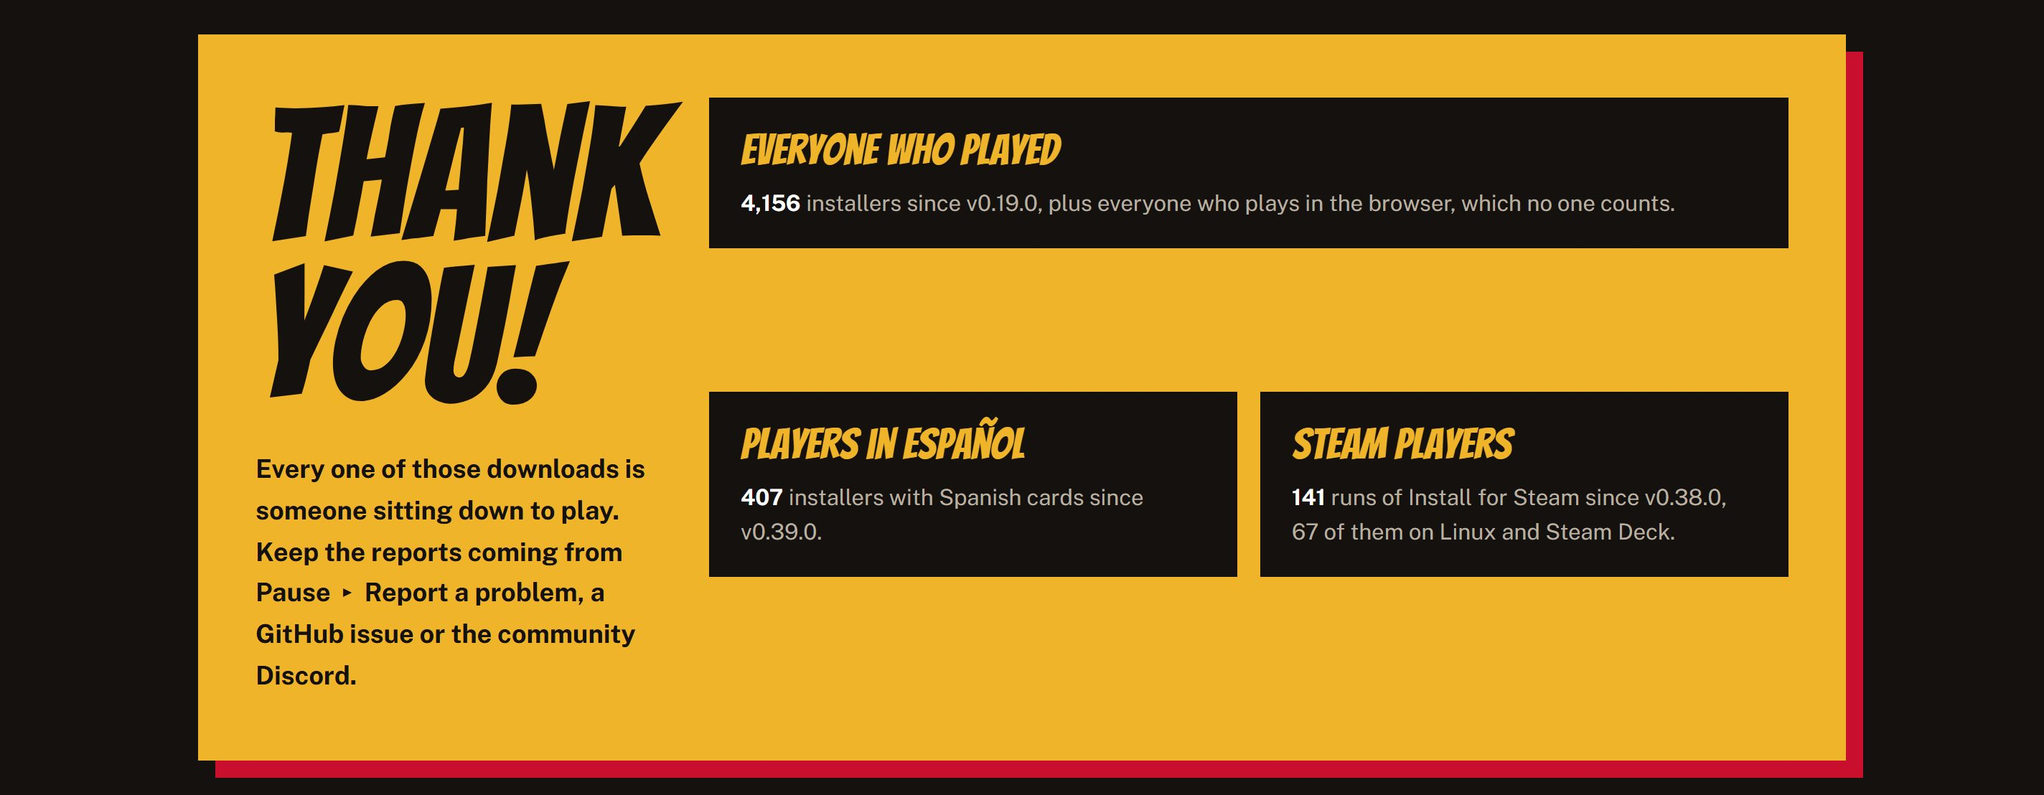
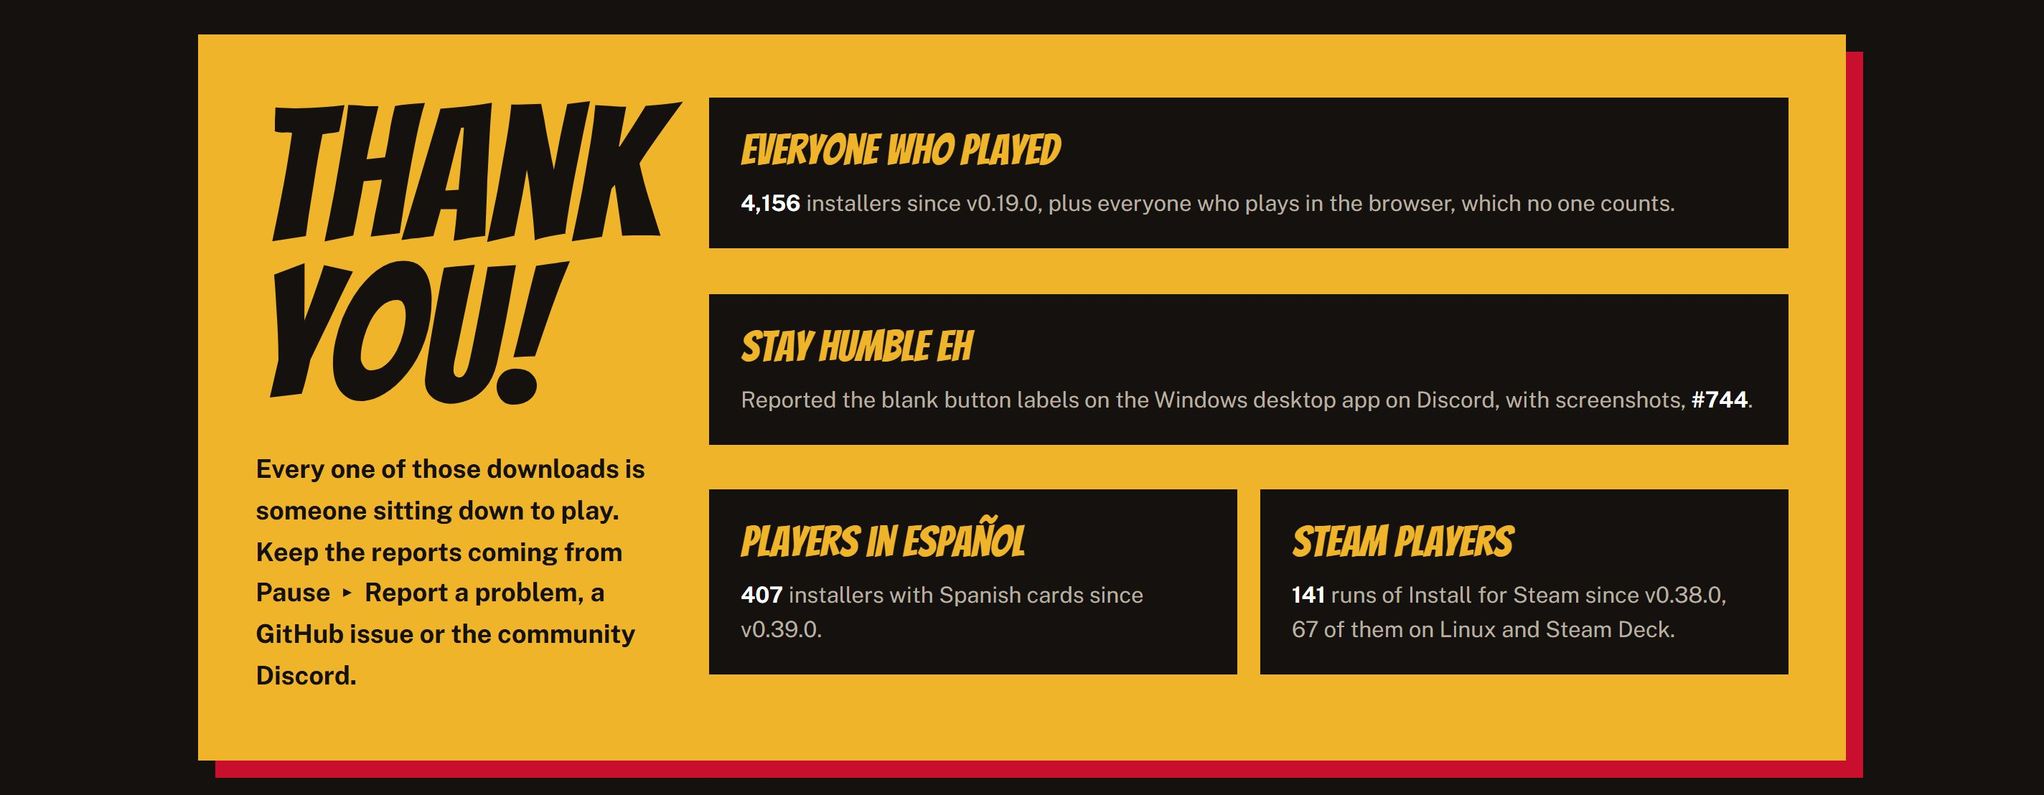
Credit Stay Humble Eh for #744 in the v0.47.0 report, with their before shot, and recount

Changed region(s): [[0.3438, 0.3682, 0.875, 0.8592]]

diff --git a/packages/client/public/releases/v0.47.0/index.html b/packages/client/public/releases/v0.47.0/index.html
@@ -851,12 +851,13 @@
       </div>
       <p class="lead">
         <b>Button labels stay drawn on the desktop app.</b> In v0.46.0 on Windows, coming back from the Mod Store or
-        changing a setting could leave the buttons empty until the mouse went over them.
+        changing a setting could leave the buttons empty until the mouse went over them. Thank you, Stay Humble Eh, for
+        the report on Discord.
       </p>
       <div class="cards">
         <div class="paper wide">
           <div>
-            <div class="eb">#744 · Windows desktop app</div>
+            <div class="eb">#744 · reported by Stay Humble Eh</div>
             <h3>The labels come back</h3>
             <p>
               The title menu's buttons, the Settings tabs and rows, the panel heading and the language chip all went
@@ -881,7 +882,17 @@
           </figure>
         </div>
       </div>
-      <div class="shots" style="margin-top: 26px">
+      <div class="shots s2" style="margin-top: 26px">
+        <figure>
+          <img
+            src="img/labels-before.webp"
+            alt="The light title screen in v0.46.0 on Windows with every menu button empty, from the player's report"
+            width="1086"
+            height="676"
+            loading="lazy"
+          />
+          <figcaption>Before: v0.46.0 on Windows, from Stay Humble Eh's report</figcaption>
+        </figure>
         <figure>
           <img
             src="img/labels-settings.webp"
@@ -908,6 +919,12 @@
             <h3>Everyone who played</h3>
             <p><b>4,156</b> installers since v0.19.0, plus everyone who plays in the browser, which no one counts.</p>
           </div>
+          <div class="person wide">
+            <h3>Stay Humble Eh</h3>
+            <p>
+              Reported the blank button labels on the Windows desktop app on Discord, with screenshots, <b>#744</b>.
+            </p>
+          </div>
           <div class="person">
             <h3>Players in Español</h3>
             <p><b>407</b> installers with Spanish cards since v0.39.0.</p>
@@ -932,17 +949,17 @@
         </div>
         <div class="tile">
           <h4>Files changed</h4>
-          <div class="n">69</div>
+          <div class="n">72</div>
           <p>across the site, its build and this report.</p>
         </div>
         <div class="tile">
           <h4>Lines added</h4>
-          <div class="n c-green">3,254</div>
+          <div class="n c-green">3,497</div>
           <p>the stats page, the top bar and their tests.</p>
         </div>
         <div class="tile">
           <h4>Lines removed</h4>
-          <div class="n c-red">49</div>
+          <div class="n c-red">50</div>
           <p>most of them the home page's old links and styles, replaced by the bar.</p>
         </div>
       </section>

diff --git a/docs/screenshots/releases/v0.47.0/github-release-body.md b/docs/screenshots/releases/v0.47.0/github-release-body.md
@@ -1,24 +1,24 @@
 ## The Numbers Are In
 
-You've downloaded the game 4,156 times since v0.19.0, so the site has a Download stats page now (#743, #745): every installer by platform, by release and by card language, the five biggest releases with their headlines, and the Install for Steam runs, counted again twice a day whenever the numbers move. Android leads with 41%, and a third of installers since v0.39.0 have Spanish cards. The home page's download panel gets a Steam script button beside the installer, with how to run it on Windows, macOS, Linux and Steam Deck (#747, #748). Every page on the site, from the home page to the release history and each report, shares one top bar with Home, Download stats and Releases. On the Windows desktop app, button labels no longer go blank after the Mod Store or a settings change (#744, #750). Thank you for playing!
+You've downloaded the game 4,156 times since v0.19.0, so the site has a Download stats page now (#743, #745): every installer by platform, by release and by card language, the five biggest releases with their headlines, and the Install for Steam runs, counted again twice a day whenever the numbers move. Android leads with 41%, and a third of installers since v0.39.0 have Spanish cards. The home page's download panel gets a Steam script button beside the installer, with how to run it on Windows, macOS, Linux and Steam Deck (#747, #748). Every page on the site, from the home page to the release history and each report, shares one top bar with Home, Download stats and Releases. On the Windows desktop app, button labels no longer go blank after the Mod Store or a settings change, which Stay Humble Eh reported on Discord (#744, #750). Thank you for playing!
 
 **[Read the full v0.47.0 report on the site ↗](https://champions-digital-game.com/releases/v0.47.0/)**: the Download stats page, where you play, every release's bar, the top five, the Steam script button, the shared top bar, the blank labels fix and the thank-you wall.
 
 **[Lee el informe completo en español ↗](https://champions-digital-game.com/releases/v0.47.0/index.es.html)**
 
-![The numbers: 4,156 installers downloaded since v0.19.0, 41% of them on Android and 33% in Español since v0.39.0](https://raw.githubusercontent.com/quincarter/marvel-champions-digital-game/cc42924263533571a609197657e14b71251f01af/docs/screenshots/releases/v0.47.0/v0-47-0-release-01-the-numbers.jpg)
+![The numbers: 4,156 installers downloaded since v0.19.0, 41% of them on Android and 33% in Español since v0.39.0](https://raw.githubusercontent.com/quincarter/marvel-champions-digital-game/@SHA@/docs/screenshots/releases/v0.47.0/v0-47-0-release-01-the-numbers.jpg)
 
-![A page for the numbers: the Download stats page, each platform's share, the five biggest releases, the page on a phone, a bar for every release, and card language and Install for Steam](https://raw.githubusercontent.com/quincarter/marvel-champions-digital-game/cc42924263533571a609197657e14b71251f01af/docs/screenshots/releases/v0.47.0/v0-47-0-release-02-a-page-for-the-numbers.jpg)
+![A page for the numbers: the Download stats page, each platform's share, the five biggest releases, the page on a phone, a bar for every release, and card language and Install for Steam](https://raw.githubusercontent.com/quincarter/marvel-champions-digital-game/@SHA@/docs/screenshots/releases/v0.47.0/v0-47-0-release-02-a-page-for-the-numbers.jpg)
 
-![Play it from Steam: the Steam script button beside the installer on Windows, Linux and a Mac at phone width, with how to run it](https://raw.githubusercontent.com/quincarter/marvel-champions-digital-game/cc42924263533571a609197657e14b71251f01af/docs/screenshots/releases/v0.47.0/v0-47-0-release-03-play-it-from-steam.jpg)
+![Play it from Steam: the Steam script button beside the installer on Windows, Linux and a Mac at phone width, with how to run it](https://raw.githubusercontent.com/quincarter/marvel-champions-digital-game/@SHA@/docs/screenshots/releases/v0.47.0/v0-47-0-release-03-play-it-from-steam.jpg)
 
-![One bar across the site: Home, Download stats and Releases on a release report and on the release history](https://raw.githubusercontent.com/quincarter/marvel-champions-digital-game/cc42924263533571a609197657e14b71251f01af/docs/screenshots/releases/v0.47.0/v0-47-0-release-04-one-bar-across-the-site.jpg)
+![One bar across the site: Home, Download stats and Releases on a release report and on the release history](https://raw.githubusercontent.com/quincarter/marvel-champions-digital-game/@SHA@/docs/screenshots/releases/v0.47.0/v0-47-0-release-04-one-bar-across-the-site.jpg)
 
-![You asked, we fixed: button labels stay drawn on the Windows desktop app after the Mod Store or a settings change](https://raw.githubusercontent.com/quincarter/marvel-champions-digital-game/cc42924263533571a609197657e14b71251f01af/docs/screenshots/releases/v0.47.0/v0-47-0-release-05-you-asked-we-fixed.jpg)
+![You asked, we fixed: button labels stay drawn on the Windows desktop app after the Mod Store or a settings change, reported by Stay Humble Eh](https://raw.githubusercontent.com/quincarter/marvel-champions-digital-game/@SHA@/docs/screenshots/releases/v0.47.0/v0-47-0-release-05-you-asked-we-fixed.jpg)
 
-![Thank you to everyone who played, in English, in Español and on Steam](https://raw.githubusercontent.com/quincarter/marvel-champions-digital-game/cc42924263533571a609197657e14b71251f01af/docs/screenshots/releases/v0.47.0/v0-47-0-release-06-thank-you.jpg)
+![Thank you to Stay Humble Eh and everyone who played, in English, in Español and on Steam](https://raw.githubusercontent.com/quincarter/marvel-champions-digital-game/@SHA@/docs/screenshots/releases/v0.47.0/v0-47-0-release-06-thank-you.jpg)
 
-![Code shipped since v0.46.0](https://raw.githubusercontent.com/quincarter/marvel-champions-digital-game/cc42924263533571a609197657e14b71251f01af/docs/screenshots/releases/v0.47.0/v0-47-0-release-07-code-shipped.jpg)
+![Code shipped since v0.46.0](https://raw.githubusercontent.com/quincarter/marvel-champions-digital-game/@SHA@/docs/screenshots/releases/v0.47.0/v0-47-0-release-07-code-shipped.jpg)
 
 ---
 
@@ -33,3 +33,7 @@ You've downloaded the game 4,156 times since v0.19.0, so the site has a Download
 ### Fixed
 
 - Button labels no longer go blank on the title menu after the Mod Store, or in Settings after changing a setting, on the desktop app (#744)
+
+### Special thanks
+
+- Stay Humble Eh reported #744 on Discord.

diff --git a/docs/releases/es/v0.47.0.md b/docs/releases/es/v0.47.0.md
@@ -1,20 +1,20 @@
 ## Ya están los números
 
-Has descargado el juego 4,156 veces desde v0.19.0, así que el sitio ahora tiene una página de estadísticas de descargas (#743, #745): cada instalador por plataforma, por versión y por idioma de las cartas, las cinco versiones más descargadas con sus titulares y las ejecuciones de Install for Steam, contado de nuevo dos veces al día cuando cambian las cifras. Android va primero con un 41%, y un tercio de los instaladores desde v0.39.0 traen las cartas en español. El panel de descarga de la página de inicio tiene un botón Steam script junto al instalador, con cómo ejecutarlo en Windows, macOS, Linux y Steam Deck (#747, #748). Todas las páginas del sitio, desde la de inicio hasta el historial de versiones y cada informe, comparten una barra superior con Home, Download stats y Releases. En la app de escritorio de Windows, los textos de los botones ya no desaparecen al volver de la Mod Store o cambiar un ajuste (#744, #750). ¡Gracias por jugar!
+Has descargado el juego 4,156 veces desde v0.19.0, así que el sitio ahora tiene una página de estadísticas de descargas (#743, #745): cada instalador por plataforma, por versión y por idioma de las cartas, las cinco versiones más descargadas con sus titulares y las ejecuciones de Install for Steam, contado de nuevo dos veces al día cuando cambian las cifras. Android va primero con un 41%, y un tercio de los instaladores desde v0.39.0 traen las cartas en español. El panel de descarga de la página de inicio tiene un botón Steam script junto al instalador, con cómo ejecutarlo en Windows, macOS, Linux y Steam Deck (#747, #748). Todas las páginas del sitio, desde la de inicio hasta el historial de versiones y cada informe, comparten una barra superior con Home, Download stats y Releases. En la app de escritorio de Windows, los textos de los botones ya no desaparecen al volver de la Mod Store o cambiar un ajuste, como reportó Stay Humble Eh en Discord (#744, #750). ¡Gracias por jugar!
 
-![Los números: 4,156 instaladores descargados desde v0.19.0, el 41% en Android y el 33% en español desde v0.39.0](https://raw.githubusercontent.com/quincarter/marvel-champions-digital-game/cc42924263533571a609197657e14b71251f01af/docs/screenshots/releases/v0.47.0/v0-47-0-release-01-the-numbers.jpg)
+![Los números: 4,156 instaladores descargados desde v0.19.0, el 41% en Android y el 33% en español desde v0.39.0](https://raw.githubusercontent.com/quincarter/marvel-champions-digital-game/@SHA@/docs/screenshots/releases/v0.47.0/v0-47-0-release-01-the-numbers.jpg)
 
-![Una página para los números: la página Download stats, la parte de cada plataforma, las cinco versiones más descargadas, la página en un teléfono, una barra por versión, y el idioma de las cartas e Install for Steam](https://raw.githubusercontent.com/quincarter/marvel-champions-digital-game/cc42924263533571a609197657e14b71251f01af/docs/screenshots/releases/v0.47.0/v0-47-0-release-02-a-page-for-the-numbers.jpg)
+![Una página para los números: la página Download stats, la parte de cada plataforma, las cinco versiones más descargadas, la página en un teléfono, una barra por versión, y el idioma de las cartas e Install for Steam](https://raw.githubusercontent.com/quincarter/marvel-champions-digital-game/@SHA@/docs/screenshots/releases/v0.47.0/v0-47-0-release-02-a-page-for-the-numbers.jpg)
 
-![Juega desde Steam: el botón Steam script junto al instalador en Windows, Linux y un Mac con ancho de teléfono, con cómo ejecutarlo](https://raw.githubusercontent.com/quincarter/marvel-champions-digital-game/cc42924263533571a609197657e14b71251f01af/docs/screenshots/releases/v0.47.0/v0-47-0-release-03-play-it-from-steam.jpg)
+![Juega desde Steam: el botón Steam script junto al instalador en Windows, Linux y un Mac con ancho de teléfono, con cómo ejecutarlo](https://raw.githubusercontent.com/quincarter/marvel-champions-digital-game/@SHA@/docs/screenshots/releases/v0.47.0/v0-47-0-release-03-play-it-from-steam.jpg)
 
-![Una barra en todo el sitio: Home, Download stats y Releases en un informe de versión y en el historial de versiones](https://raw.githubusercontent.com/quincarter/marvel-champions-digital-game/cc42924263533571a609197657e14b71251f01af/docs/screenshots/releases/v0.47.0/v0-47-0-release-04-one-bar-across-the-site.jpg)
+![Una barra en todo el sitio: Home, Download stats y Releases en un informe de versión y en el historial de versiones](https://raw.githubusercontent.com/quincarter/marvel-champions-digital-game/@SHA@/docs/screenshots/releases/v0.47.0/v0-47-0-release-04-one-bar-across-the-site.jpg)
 
-![Lo pediste, lo corregimos: los textos de los botones ya no desaparecen en la app de escritorio de Windows al volver de la Mod Store o cambiar un ajuste](https://raw.githubusercontent.com/quincarter/marvel-champions-digital-game/cc42924263533571a609197657e14b71251f01af/docs/screenshots/releases/v0.47.0/v0-47-0-release-05-you-asked-we-fixed.jpg)
+![Lo pediste, lo corregimos: los textos de los botones ya no desaparecen en la app de escritorio de Windows al volver de la Mod Store o cambiar un ajuste, reportado por Stay Humble Eh](https://raw.githubusercontent.com/quincarter/marvel-champions-digital-game/@SHA@/docs/screenshots/releases/v0.47.0/v0-47-0-release-05-you-asked-we-fixed.jpg)
 
-![Gracias a todos los que jugaron, en inglés, en español y en Steam](https://raw.githubusercontent.com/quincarter/marvel-champions-digital-game/cc42924263533571a609197657e14b71251f01af/docs/screenshots/releases/v0.47.0/v0-47-0-release-06-thank-you.jpg)
+![Gracias a Stay Humble Eh y a todos los que jugaron, en inglés, en español y en Steam](https://raw.githubusercontent.com/quincarter/marvel-champions-digital-game/@SHA@/docs/screenshots/releases/v0.47.0/v0-47-0-release-06-thank-you.jpg)
 
-![Código publicado desde v0.46.0](https://raw.githubusercontent.com/quincarter/marvel-champions-digital-game/cc42924263533571a609197657e14b71251f01af/docs/screenshots/releases/v0.47.0/v0-47-0-release-07-code-shipped.jpg)
+![Código publicado desde v0.46.0](https://raw.githubusercontent.com/quincarter/marvel-champions-digital-game/@SHA@/docs/screenshots/releases/v0.47.0/v0-47-0-release-07-code-shipped.jpg)
 
 ## [v0.47.0] - 2026-11-16
 

diff --git a/docs/screenshots/releases/v0.47.0/release-notes-header.md b/docs/screenshots/releases/v0.47.0/release-notes-header.md
@@ -1,21 +1,21 @@
 ## The Numbers Are In
 
-You've downloaded the game 4,156 times since v0.19.0, so the site has a Download stats page now (#743, #745): every installer by platform, by release and by card language, the five biggest releases with their headlines, and the Install for Steam runs, counted again twice a day whenever the numbers move. Android leads with 41%, and a third of installers since v0.39.0 have Spanish cards. The home page's download panel gets a Steam script button beside the installer, with how to run it on Windows, macOS, Linux and Steam Deck (#747, #748). Every page on the site, from the home page to the release history and each report, shares one top bar with Home, Download stats and Releases. On the Windows desktop app, button labels no longer go blank after the Mod Store or a settings change (#744, #750). Thank you for playing!
+You've downloaded the game 4,156 times since v0.19.0, so the site has a Download stats page now (#743, #745): every installer by platform, by release and by card language, the five biggest releases with their headlines, and the Install for Steam runs, counted again twice a day whenever the numbers move. Android leads with 41%, and a third of installers since v0.39.0 have Spanish cards. The home page's download panel gets a Steam script button beside the installer, with how to run it on Windows, macOS, Linux and Steam Deck (#747, #748). Every page on the site, from the home page to the release history and each report, shares one top bar with Home, Download stats and Releases. On the Windows desktop app, button labels no longer go blank after the Mod Store or a settings change, which Stay Humble Eh reported on Discord (#744, #750). Thank you for playing!
 
 **[Read the full v0.47.0 report on the site ↗](https://champions-digital-game.com/releases/v0.47.0/)**: the Download stats page, where you play, every release's bar, the top five, the Steam script button, the shared top bar, the blank labels fix and the thank-you wall.
 
 **[Lee el informe completo en español ↗](https://champions-digital-game.com/releases/v0.47.0/index.es.html)**
 
-![The numbers: 4,156 installers downloaded since v0.19.0, 41% of them on Android and 33% in Español since v0.39.0](https://raw.githubusercontent.com/quincarter/marvel-champions-digital-game/cc42924263533571a609197657e14b71251f01af/docs/screenshots/releases/v0.47.0/v0-47-0-release-01-the-numbers.jpg)
+![The numbers: 4,156 installers downloaded since v0.19.0, 41% of them on Android and 33% in Español since v0.39.0](https://raw.githubusercontent.com/quincarter/marvel-champions-digital-game/@SHA@/docs/screenshots/releases/v0.47.0/v0-47-0-release-01-the-numbers.jpg)
 
-![A page for the numbers: the Download stats page, each platform's share, the five biggest releases, the page on a phone, a bar for every release, and card language and Install for Steam](https://raw.githubusercontent.com/quincarter/marvel-champions-digital-game/cc42924263533571a609197657e14b71251f01af/docs/screenshots/releases/v0.47.0/v0-47-0-release-02-a-page-for-the-numbers.jpg)
+![A page for the numbers: the Download stats page, each platform's share, the five biggest releases, the page on a phone, a bar for every release, and card language and Install for Steam](https://raw.githubusercontent.com/quincarter/marvel-champions-digital-game/@SHA@/docs/screenshots/releases/v0.47.0/v0-47-0-release-02-a-page-for-the-numbers.jpg)
 
-![Play it from Steam: the Steam script button beside the installer on Windows, Linux and a Mac at phone width, with how to run it](https://raw.githubusercontent.com/quincarter/marvel-champions-digital-game/cc42924263533571a609197657e14b71251f01af/docs/screenshots/releases/v0.47.0/v0-47-0-release-03-play-it-from-steam.jpg)
+![Play it from Steam: the Steam script button beside the installer on Windows, Linux and a Mac at phone width, with how to run it](https://raw.githubusercontent.com/quincarter/marvel-champions-digital-game/@SHA@/docs/screenshots/releases/v0.47.0/v0-47-0-release-03-play-it-from-steam.jpg)
 
-![One bar across the site: Home, Download stats and Releases on a release report and on the release history](https://raw.githubusercontent.com/quincarter/marvel-champions-digital-game/cc42924263533571a609197657e14b71251f01af/docs/screenshots/releases/v0.47.0/v0-47-0-release-04-one-bar-across-the-site.jpg)
+![One bar across the site: Home, Download stats and Releases on a release report and on the release history](https://raw.githubusercontent.com/quincarter/marvel-champions-digital-game/@SHA@/docs/screenshots/releases/v0.47.0/v0-47-0-release-04-one-bar-across-the-site.jpg)
 
-![You asked, we fixed: button labels stay drawn on the Windows desktop app after the Mod Store or a settings change](https://raw.githubusercontent.com/quincarter/marvel-champions-digital-game/cc42924263533571a609197657e14b71251f01af/docs/screenshots/releases/v0.47.0/v0-47-0-release-05-you-asked-we-fixed.jpg)
+![You asked, we fixed: button labels stay drawn on the Windows desktop app after the Mod Store or a settings change, reported by Stay Humble Eh](https://raw.githubusercontent.com/quincarter/marvel-champions-digital-game/@SHA@/docs/screenshots/releases/v0.47.0/v0-47-0-release-05-you-asked-we-fixed.jpg)
 
-![Thank you to everyone who played, in English, in Español and on Steam](https://raw.githubusercontent.com/quincarter/marvel-champions-digital-game/cc42924263533571a609197657e14b71251f01af/docs/screenshots/releases/v0.47.0/v0-47-0-release-06-thank-you.jpg)
+![Thank you to Stay Humble Eh and everyone who played, in English, in Español and on Steam](https://raw.githubusercontent.com/quincarter/marvel-champions-digital-game/@SHA@/docs/screenshots/releases/v0.47.0/v0-47-0-release-06-thank-you.jpg)
 
-![Code shipped since v0.46.0](https://raw.githubusercontent.com/quincarter/marvel-champions-digital-game/cc42924263533571a609197657e14b71251f01af/docs/screenshots/releases/v0.47.0/v0-47-0-release-07-code-shipped.jpg)
+![Code shipped since v0.46.0](https://raw.githubusercontent.com/quincarter/marvel-champions-digital-game/@SHA@/docs/screenshots/releases/v0.47.0/v0-47-0-release-07-code-shipped.jpg)

diff --git a/docs/screenshots/releases/v0.47.0/discord-post.md b/docs/screenshots/releases/v0.47.0/discord-post.md
@@ -8,7 +8,7 @@ You've downloaded the game 4,156 times since v0.19.0, so the site has a page to 
 🇪🇸 **In Español**: a third of installers since v0.39.0 have Spanish cards.
 🎮 **Steam**: 141 runs of Install for Steam since v0.38.0, 67 of them on Linux and Steam Deck.
 🚂 **Steam script button**: the home page's download panel puts it beside your installer, with how to run it on Windows, macOS, Linux and Steam Deck.
-🪟 **Windows fix**: button labels no longer go blank after the Mod Store or a settings change on the desktop app.
+🪟 **Windows fix**: button labels no longer go blank after the Mod Store or a settings change on the desktop app. Thanks, Stay Humble Eh, for the report!
 🔁 **Kept current**: the page counts again twice a day, whenever the numbers move.
 🧭 **One top bar**: Home, Download stats and Releases on every page of the site, release reports included.
 
@@ -30,7 +30,7 @@ Has descargado el juego 4,156 veces desde v0.19.0, así que el sitio tiene una p
 🇪🇸 **En español**: un tercio de los instaladores desde v0.39.0 traen las cartas en español.
 🎮 **Steam**: 141 ejecuciones de Install for Steam desde v0.38.0, 67 de ellas en Linux y Steam Deck.
 🚂 **Botón Steam script**: el panel de descarga de la página de inicio lo pone junto a tu instalador, con cómo ejecutarlo en Windows, macOS, Linux y Steam Deck.
-🪟 **Corrección en Windows**: los textos de los botones ya no desaparecen al volver de la Mod Store o cambiar un ajuste en la app de escritorio.
+🪟 **Corrección en Windows**: los textos de los botones ya no desaparecen al volver de la Mod Store o cambiar un ajuste en la app de escritorio. ¡Gracias, Stay Humble Eh, por el reporte!
 🔁 **Siempre al día**: la página vuelve a contar dos veces al día, cuando cambian las cifras.
 🧭 **Una barra superior**: Home, Download stats y Releases en todas las páginas del sitio, también en los informes de versión.
 
